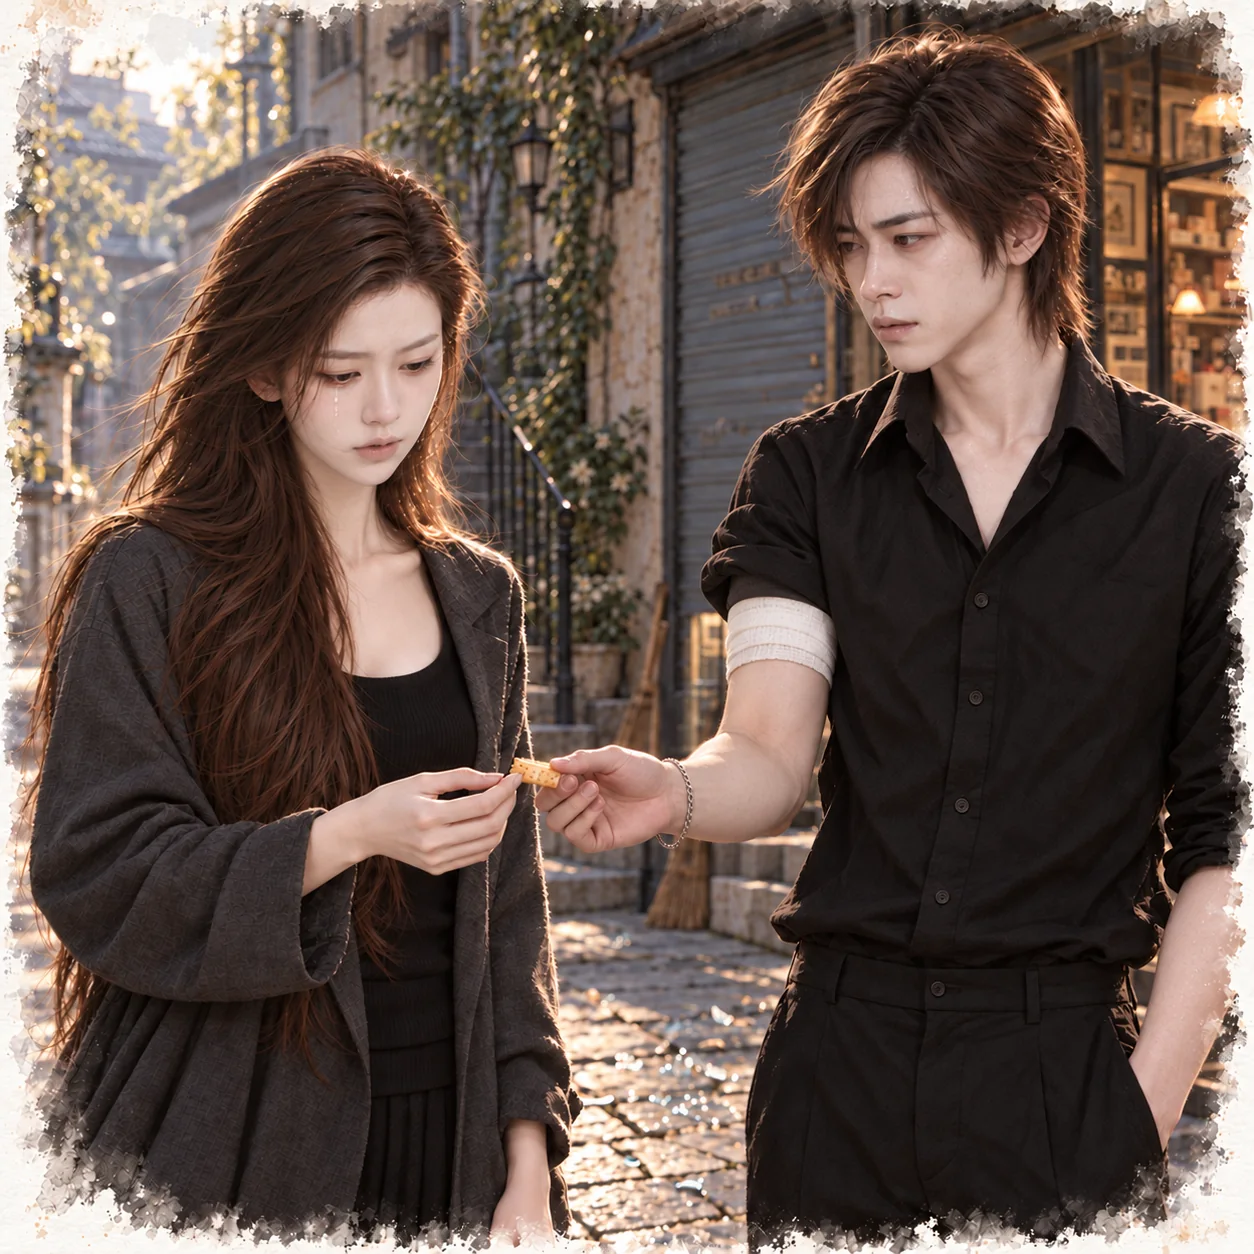
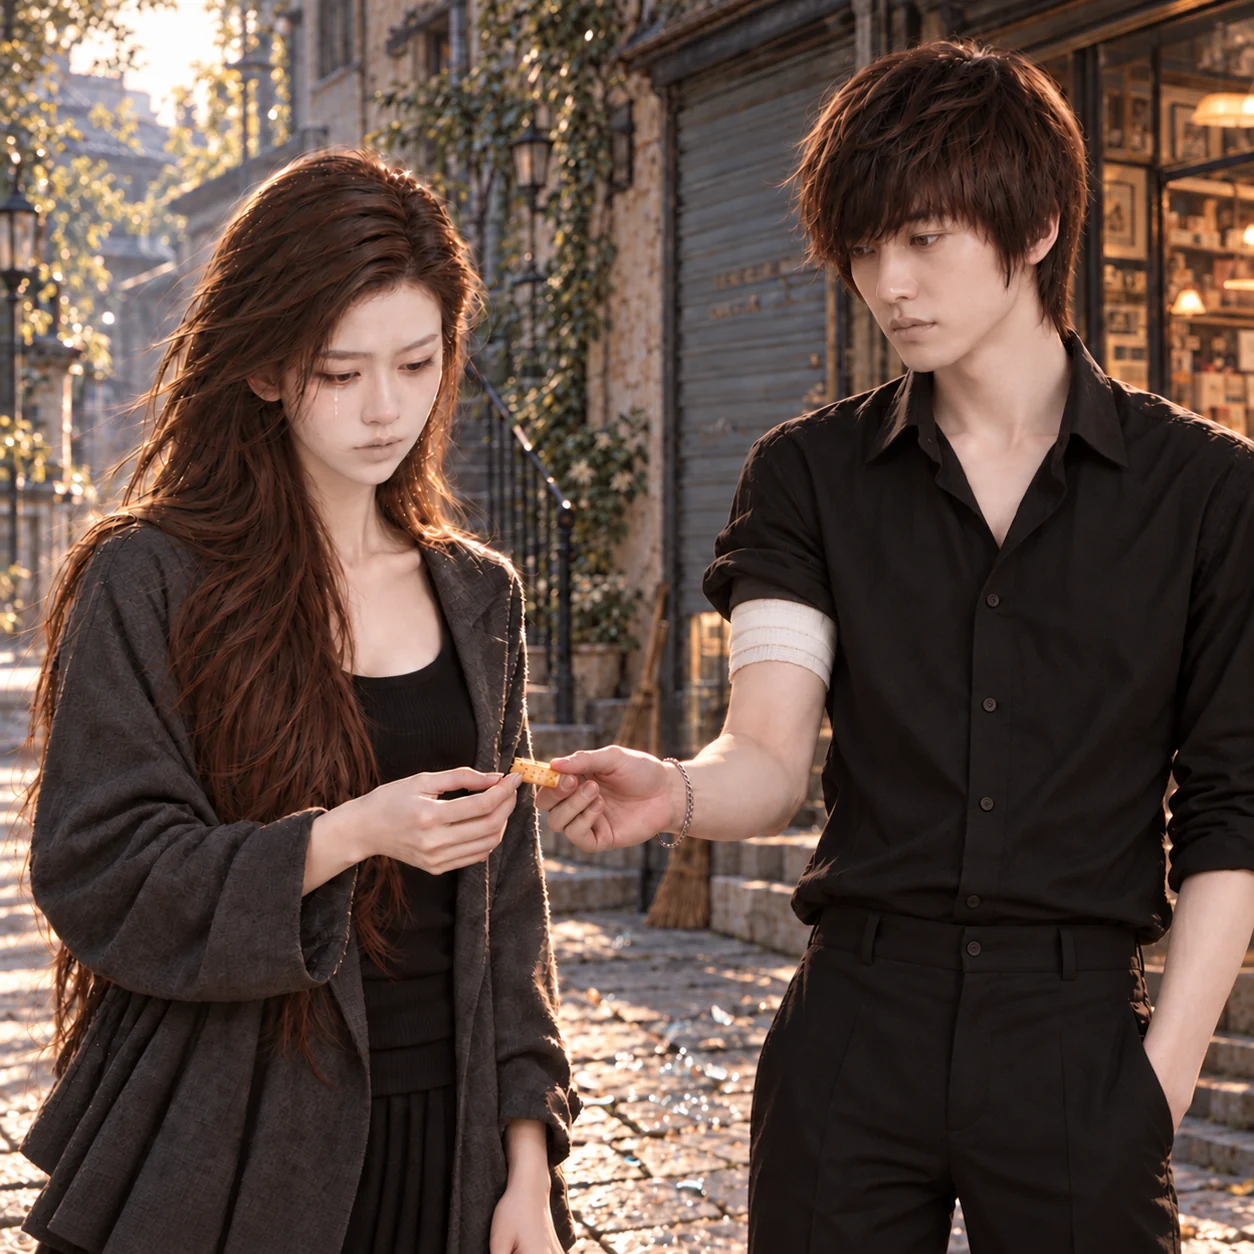
更換《沒有招牌的酒吧》第一部第四章林棠配圖
Claude-Session: https://claude.ai/code/session_01GBWYe2ZCjBEsB5sU4wpFsc

diff --git a/novels/no-signboard-bar/chapter-04.html b/novels/no-signboard-bar/chapter-04.html
@@ -114,7 +114,7 @@
 <p>不回。讓他們等。我剛剛也等了，等一個人吸回一口氣。</p>
 </section>
 <section class="pov pov-lin" data-name="林棠">
-<div class="pov-opening"><h2 class="pov-title" id="pov-4"><span>敘事視角</span>林棠</h2><a class="pov-art" href="../../assets/novels/no-signboard-bar/chapter-04-lin-tang.webp?v=20261013" target="_blank" rel="noopener" aria-label="開啟林棠插圖大圖"><img src="../../assets/novels/no-signboard-bar/chapter-04-lin-tang.webp?v=20261013" alt="早上的巷子，地上還有碎玻璃，手臂包著紗布的江澈把半片餅乾遞給眼角帶淚的林棠，身後是拉到一半的鐵捲門和靠牆的掃把。" width="1254" height="1254" loading="lazy" decoding="async"><span class="pov-cap">早上的巷子，半片放軟的餅乾</span></a><div class="pov-intro"><p>我沒有去九點的通告。</p>
+<div class="pov-opening"><h2 class="pov-title" id="pov-4"><span>敘事視角</span>林棠</h2><a class="pov-art" href="../../assets/novels/no-signboard-bar/chapter-04-lin-tang.webp?v=20261014" target="_blank" rel="noopener" aria-label="開啟林棠插圖大圖"><img src="../../assets/novels/no-signboard-bar/chapter-04-lin-tang.webp?v=20261014" class="soft-edge" alt="早上的巷子，地上還有碎玻璃，手臂包著紗布的江澈把半片餅乾遞給眼角帶淚的林棠，身後是鐵捲門和靠牆的掃把。" width="1254" height="1254" loading="lazy" decoding="async"><span class="pov-cap">早上的巷子，半片放軟的餅乾</span></a><div class="pov-intro"><p>我沒有去九點的通告。</p>
 <p>七點半，經紀人傳訊息來：「妳常去那條巷子昨晚出事了，新聞有報，好像是搶劫開槍。妳最近不要去那邊，被拍到很麻煩。」</p>
 <p>我換好衣服，抓了沙發扶手上那件外套，叫了車。</p></div></div>
 <p>巷口拉著一段黃色的封鎖線，已經撤掉一半了。一台警車停在外面，兩個警察在跟里長講話。</p>
